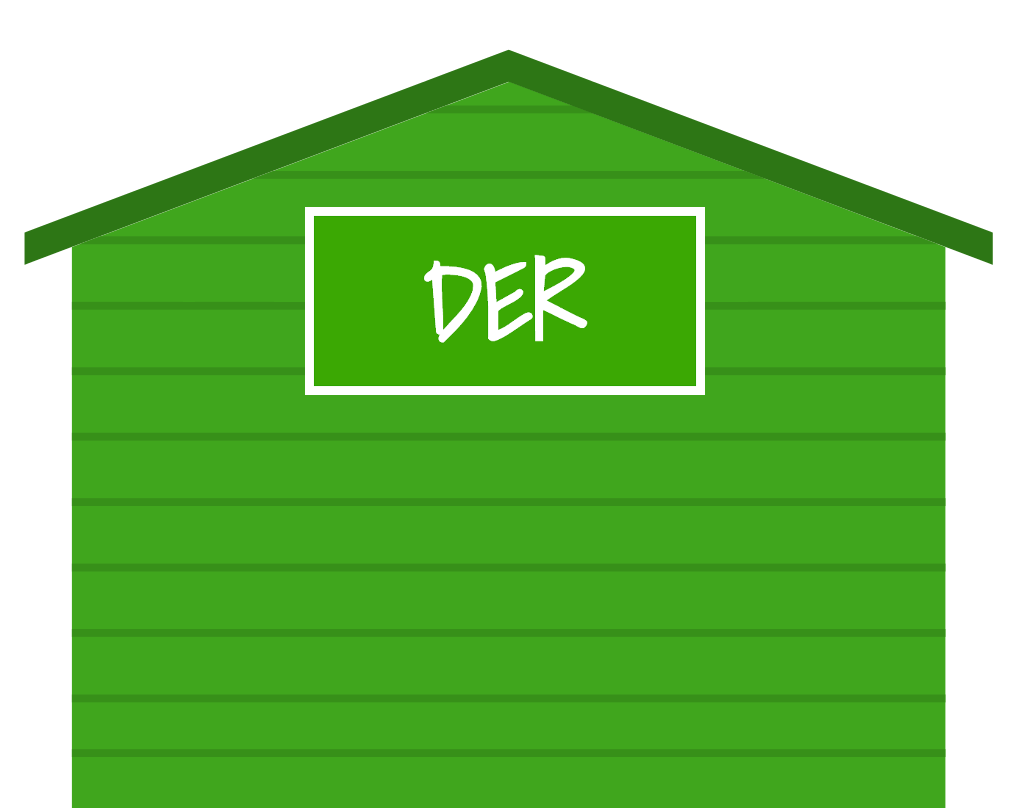
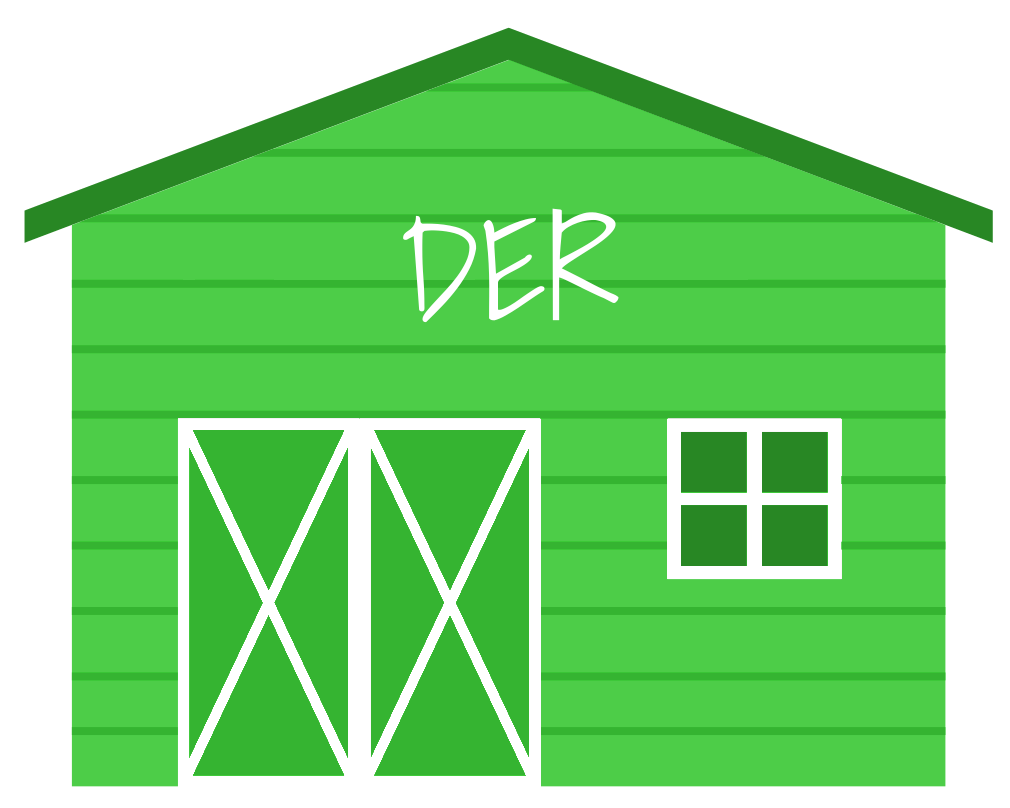
Remove animated doors

diff --git a/style/app.scss b/style/app.scss
@@ -107,16 +107,13 @@ html, body, .app {
 /* barn */
 
 .barn {
-  display: flex;
-  flex-direction: row;
-  justify-content: center;
-  align-items: flex-end;
-  position: relative;
   width: $barn-size;
   height: $barn-size;
   background-size: contain;
-  background-position: 50% bottom;
+  background-position: center bottom;
   background-repeat: no-repeat;
+  transition: transform 0.2s ease-in;
+  position: relative;
 
   &.der {
     background-image: url('../images/barn/green-barn.png');
@@ -130,53 +127,15 @@ html, body, .app {
     background-image: url('../images/barn/blue-barn.png');
   }
 
-
-  perspective: 10em;
-  perspective-origin: 50% 75%;
-
-
-}
-
-.barn-door {
-  width: 20%;
-  height: 40%;
-
-  background-size: 100% 100%;
-  background-repeat: no-repeat;
-  transition: transform 0.2s ease-out;
-
-  &.left {
-    background-position: left bottom;
-    transform-origin: left top;
-  }
-
-  &.right {
-    background-position: right bottom;
-    transform-origin: right top;
+  &.over {
+    transform: scale(1.1, 1.1);
   }
 }
 
-.over .barn-door {
-
-  &.left {
-    transform: rotateY(-100deg);
-  }
-
-  &.right {
-    transform: rotateY(100deg);
-  }
-}
-
-.der .barn-door {
-  background-image: url('../images/barn/green-door.png');
-}
-
-.die .barn-door {
-  background-image: url('../images/barn/yellow-door.png');
-}
-
-.das .barn-door {
-  background-image: url('../images/barn/blue-door.png');
+.barn-sign {
+  text-transform: uppercase;
+  text-align: center;
+  margin: 0;
 }
 
 
@@ -208,13 +167,24 @@ html, body, .app {
     display: flex;
     flex-direction: row;
     justify-content: space-around;
-    align-items: stretch;
+    align-items: flex-end;
     height: 50%;
+    max-height: $barn-size;
+  }
+
+  .barn-signs {
+    background-color: #acd9ff;
+    display: flex;
+    flex-direction: row;
+    justify-content: space-around;
+    align-items: flex-end;
   }
 
   .barn {
     height: 100%;
     margin-bottom: -10px;
+    flex-grow: 0;
+    flex-shrink: 1;
   }
 
   .animal {

diff --git a/src/farm-game.js b/src/farm-game.js
@@ -34,11 +34,13 @@ export class FarmGame extends Component {
 
     return (
       <div className="screen farm-game">
+
         <div className="barns">
           <Barn type="der"/>
           <Barn type="die"/>
           <Barn type="das"/>
         </div>
+
 
         <Animal key={animal}
                 type={animal}

diff --git a/src/barn.js b/src/barn.js
@@ -28,8 +28,6 @@ export class Barn extends Component {
     return connectDropTarget(
       <div className={barnClass}
            onClick={() => sayArticle(type)}>
-          <div className="barn-door left"></div>
-          <div className="barn-door right"></div>
       </div>
     );
 

diff --git a/index.html b/index.html
@@ -8,7 +8,6 @@
   <body>
     <div id="app" class="app">
     </div>
-    <script src="https://cdnjs.cloudflare.com/ajax/libs/buzz/1.1.10/buzz.js"></script>
     <script src="/static/bundle.js"></script>
   </body>
 </html>
